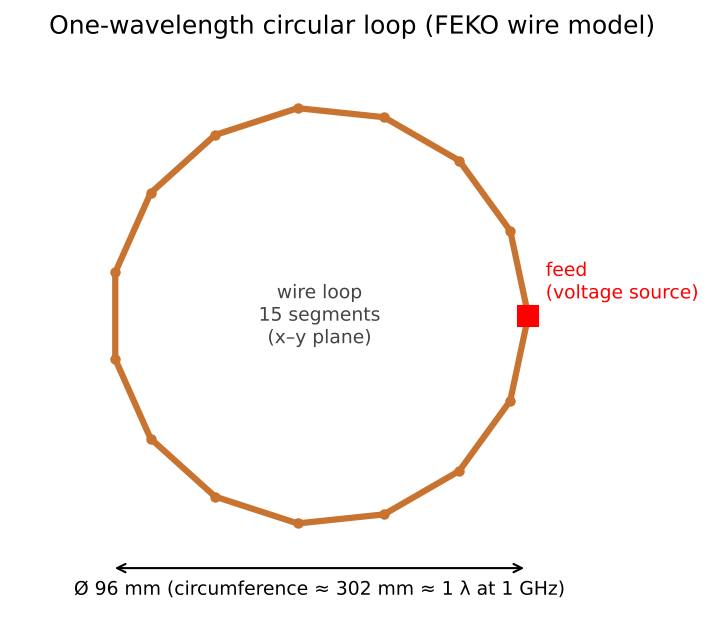
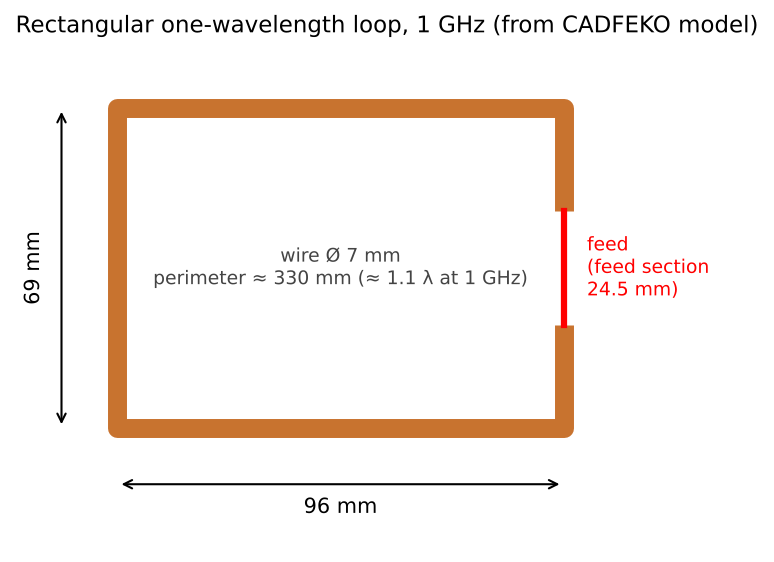
Add FEKO source file and corrected geometry for loop

diff --git a/Antenna/FEKO-Simulations/One-Wavelength-Loop/README.md b/Antenna/FEKO-Simulations/One-Wavelength-Loop/README.md
@@ -1,4 +1,4 @@
-# One-Wavelength Circular Loop Antenna (FEKO)
+# One-Wavelength Rectangular Loop Antenna (FEKO)
 
 [← Back to FEKO Simulations](../README.md)
 
@@ -12,10 +12,18 @@ It radiates broadside to the loop plane, with about 3–4 dBi gain.
 
 | Parameter | Value |
 |---|---|
-| Structure | Circular wire loop in the x–y plane, modelled with 15 straight segments |
-| Overall dimensions | Diameter ≈ 96 mm (circumference ≈ 302 mm ≈ 1 λ at 1 GHz) |
+| Structure | Rectangular wire loop in the x–y plane, fed at the middle of one short side |
+| Overall dimensions | 96 mm × 69 mm, wire Ø 7 mm (perimeter ≈ 330 mm ≈ 1.1 λ at 1 GHz, corrected for the thick wire) |
 | Excitation | Voltage source at one point on the loop; S-parameters referenced to 50 Ω and 85 Ω |
 | Resonance | 1.0 GHz, input impedance ≈ 86 − j6 Ω (S11 = −28 dB for 85 Ω, −11 dB for 50 Ω) |
 | Frequency range | 0.8–1.2 GHz (UHF / L band) |
 | Peak directivity | 2.9–4.6 dBi (3.9 dBi at resonance), maximum normal to the loop |
 | Year of design | 2016 (FEKO Suite 7.0) |
+
+## Source file (download to simulate)
+
+| File | Description |
+|---|---|
+| [`rectangular_loop.cfx`](rectangular_loop.cfx) | CADFEKO model (FEKO 7.0) |
+
+Open with Altair FEKO (CADFEKO 7.0 or newer); open the .cfx and run the solver to regenerate results. ANSYS HFSS cannot open this format directly; export the geometry as STEP from the original tool to reuse it in HFSS.
